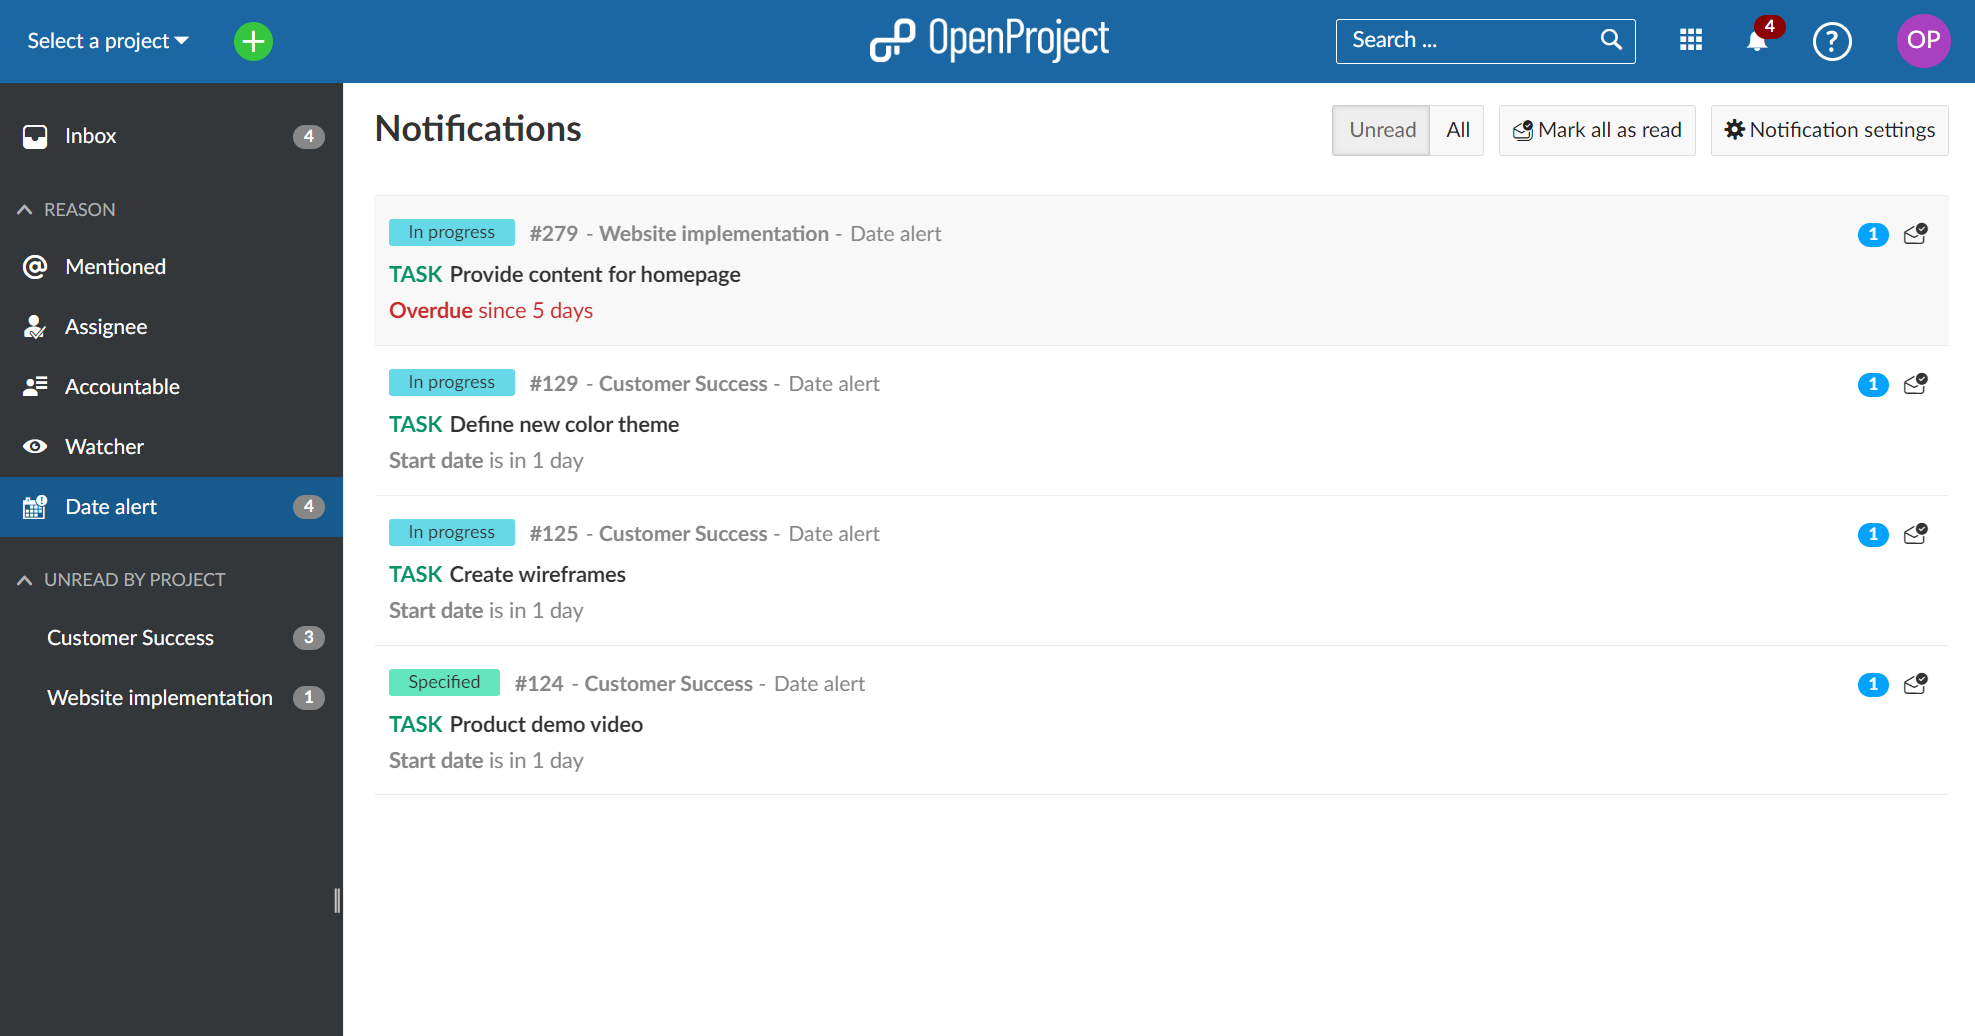
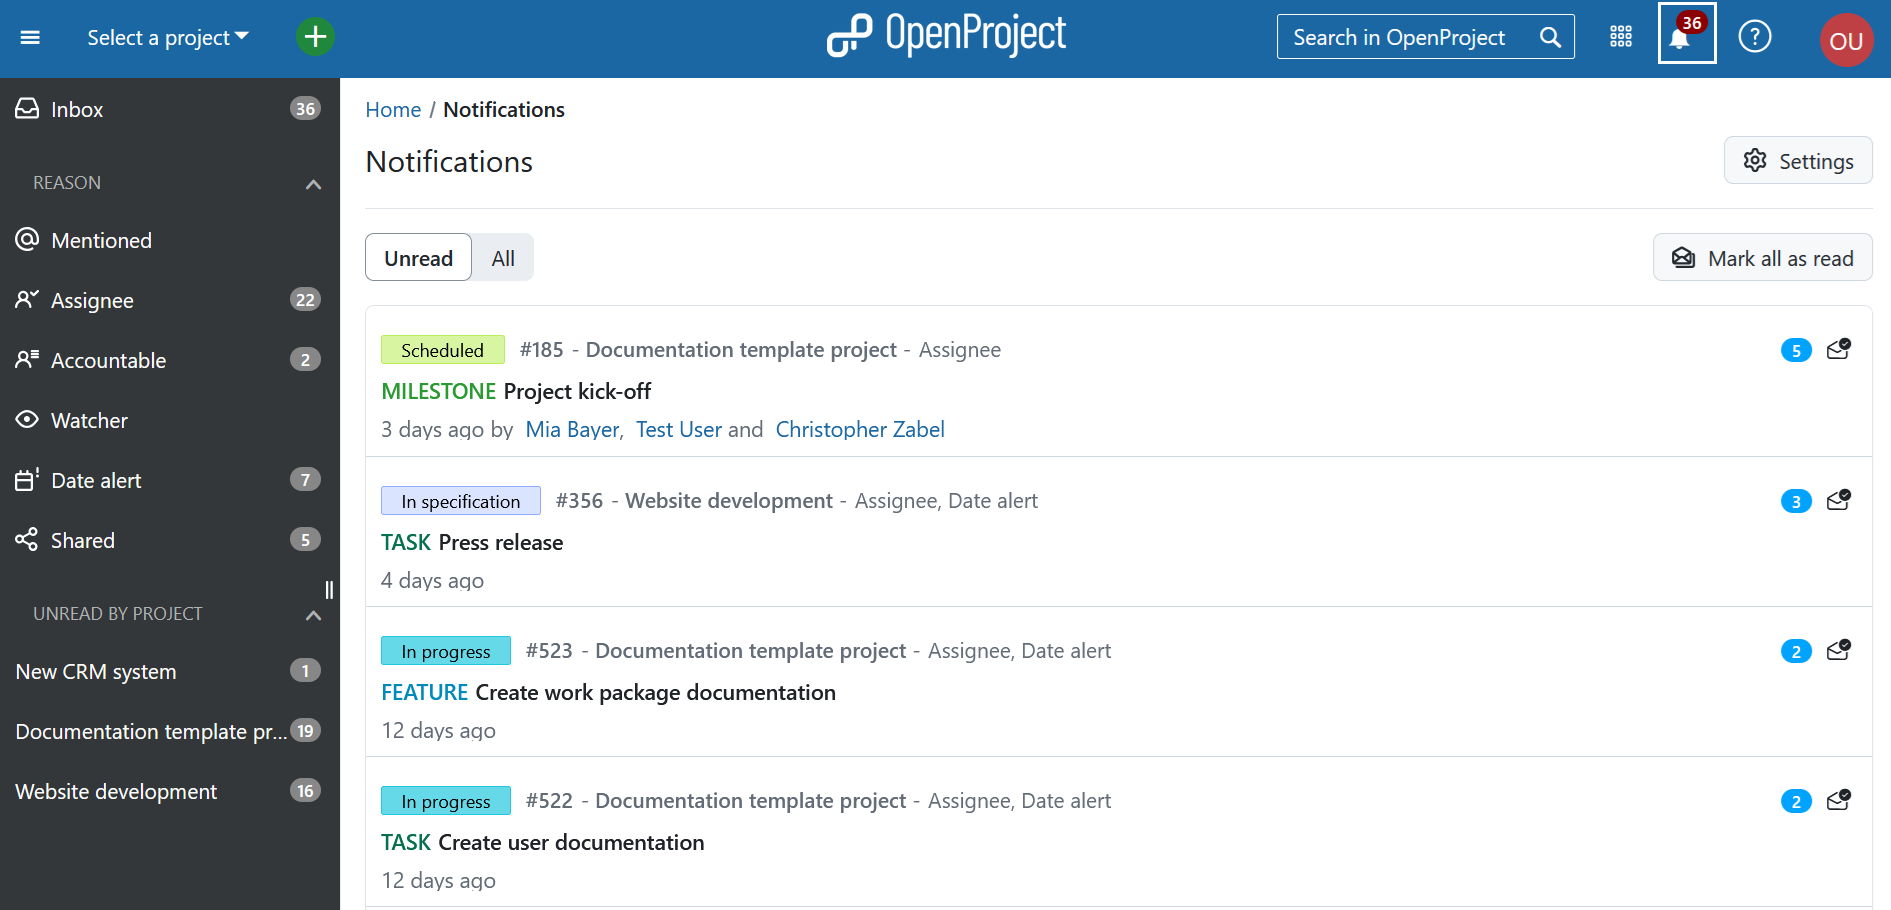
[#57587] 14.5 Documentation: Notifications center changes  https://community.openproject.org/work_packages/57587
[#57587] 14.5 Documentation: Notifications center changes

https://community.openproject.org/work_packages/57587

diff --git a/docs/user-guide/notifications/README.md b/docs/user-guide/notifications/README.md
@@ -37,11 +37,18 @@ The work packages are listed in order of freshness. The work packages on top of 
 
 ## Manage notifications
 
-Click on a notification to open the Activity tab of this work package in split screen. If you double click on a notification, it will open the full view of a work package. The Activity tab will auto-scroll to the last event that generated a notification.
+Click on a notification to open the Activity tab of this work package in split screen. If you double click on a notification, it will open the full view of a work package. 
 
-> **Info:** Not all work package activity generate notifications. For example, if you received a notification because you were mentioned, there might be other activities on that work package after that, even though the *Activity* tab will auto-scroll to highlight the mention when you click on the notification, since the mention was originally what triggered the notification.
+> [!TIP]
+>
+> You can adjust the split screen by moving the resizer on the left side of the split screen, it will be stored locally and used for other split screen layouts.
 
-![The different sections of Notification center highlighted with numbers 1 through 5](NotificationCenter-12.4-splitScreenView-structure.png)
+The Activity tab will auto-scroll to the last event that generated a notification. Badges next to the tabs  indicate number of content, e.g. number 1 next to the tab *Relations* indicates that current work package is related to one more work package. 
+
+> [!TIP]
+> Not all work package activity generate notifications. For example, if you received a notification because you were mentioned, there might be other activities on that work package after that, even though the *Activity* tab will auto-scroll to highlight the mention when you click on the notification, since the mention was originally what triggered the notification.
+
+![OpenProject notification center split screen view explained](openproject_user_guide_notification_center_split_screen.png)
 
 You can filter or group notifications by using the two sets of predefined filters on the left-hand menu:
 
@@ -54,7 +61,8 @@ You can filter or group notifications by using the two sets of predefined filter
 - You can also choose to view either only **Unread** notification or **All**, which will also display notifications previously marked as read.
 - You can also **Mark all as read** if you want to clean your notification inbox in one click.
 
-> **Info:** The **Mark all as read** button clears all _visible_ notification rows. If you have a very large number unread notifications, the oldest ones might not be visible on the page. In this case, you might have to click the button multiple times to clear your inbox completely.
+> [!TIP]
+> The **Mark all as read** button clears all _visible_ notification rows. If you have a very large number unread notifications, the oldest ones might not be visible on the page. In this case, you might have to click the button multiple times to clear your inbox completely.
 
 (Area 4) If you would like to view your current notification preferences or modify them, click on the [Notification settings](./notification-settings) button. You can also access your settings via your Avatar in the top right corner > *My account* > *Notification settings*.
 
@@ -64,22 +72,19 @@ In addition to the in-app notifications, you will also get a once-a-day summary 
 
 ## Mark notifications as read
 
-Click on the **Mark as read** button represented by the envelope icon on the right side of the notification row. This will mark all the notifications for that work package (indicated by the number on the blue badge) as read.
+Click on the **Mark as read** button represented by the envelope icon on the right side of the notification row. This will mark all the notifications for that work package (indicated by the number on the blue badge) as read. You can also use the **Mark as Read** button at the bottom of the split-screen view of a work package to achieve the same result.
 
-![mark-as-read](mark-as-read.png)
+![Mark notifications as read in OpenProject noticification center](openproject_user_guide_notification_center_mark_read_envelope.png)
 
-- You can also use the **Mark as Read** button at the bottom of the split-screen view of a work package to achieve the same result.
+Additionally, you can mark notifications as read in the work package full screen view by clicking on the envelope icon in the upper right corner of the details view.
 
-  ![notifications-bottom-bar](notifications-bottom-bar-4292960.png)
-
-- Additionally, you can mark notifications as read in the work package full screen view by clicking on the envelope icon in the upper right corner of the details view.
-
-![notification-full-screen-view-work-package](notification-full-screen-view-work-package.png)
+![Mark notifications as read in a full-screen work package view in OpenProject](openproject_user_guide_notification_center_mark_read_envelope_splitscreen_mode.png)
 
 ## Notifications outside of Notification Center
 
 In-app notifications are also visible directly on work packages, in both full screen and in split-screen views. If there are unread notifications related to the currently-open work package, a small blue badge next to the Activity tab will display indicate this, along with the number of unread notifications.
 
-![notifications-activity-tab](notifications-activity-tab.png)
+![Notifications in the activity tab of work package in OpenProject](openproject_user_guide_notification_activity_tab.png)
 
-> **Info:** This number does not include notifications concerning **Date alerts**.
+> [!NOTE]
+> This number does not include notifications concerning **Date alerts**.
